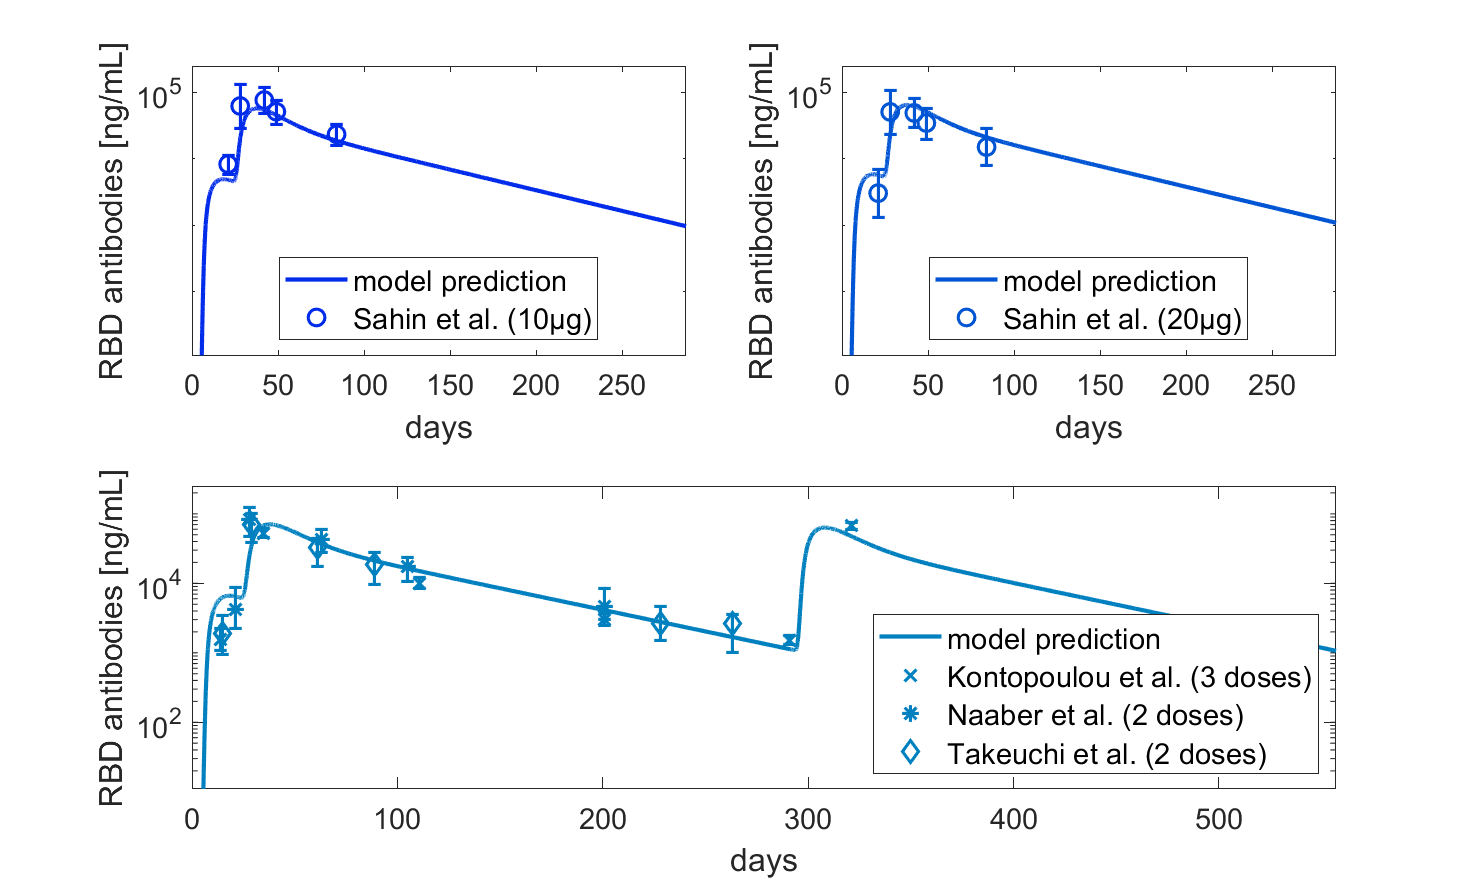
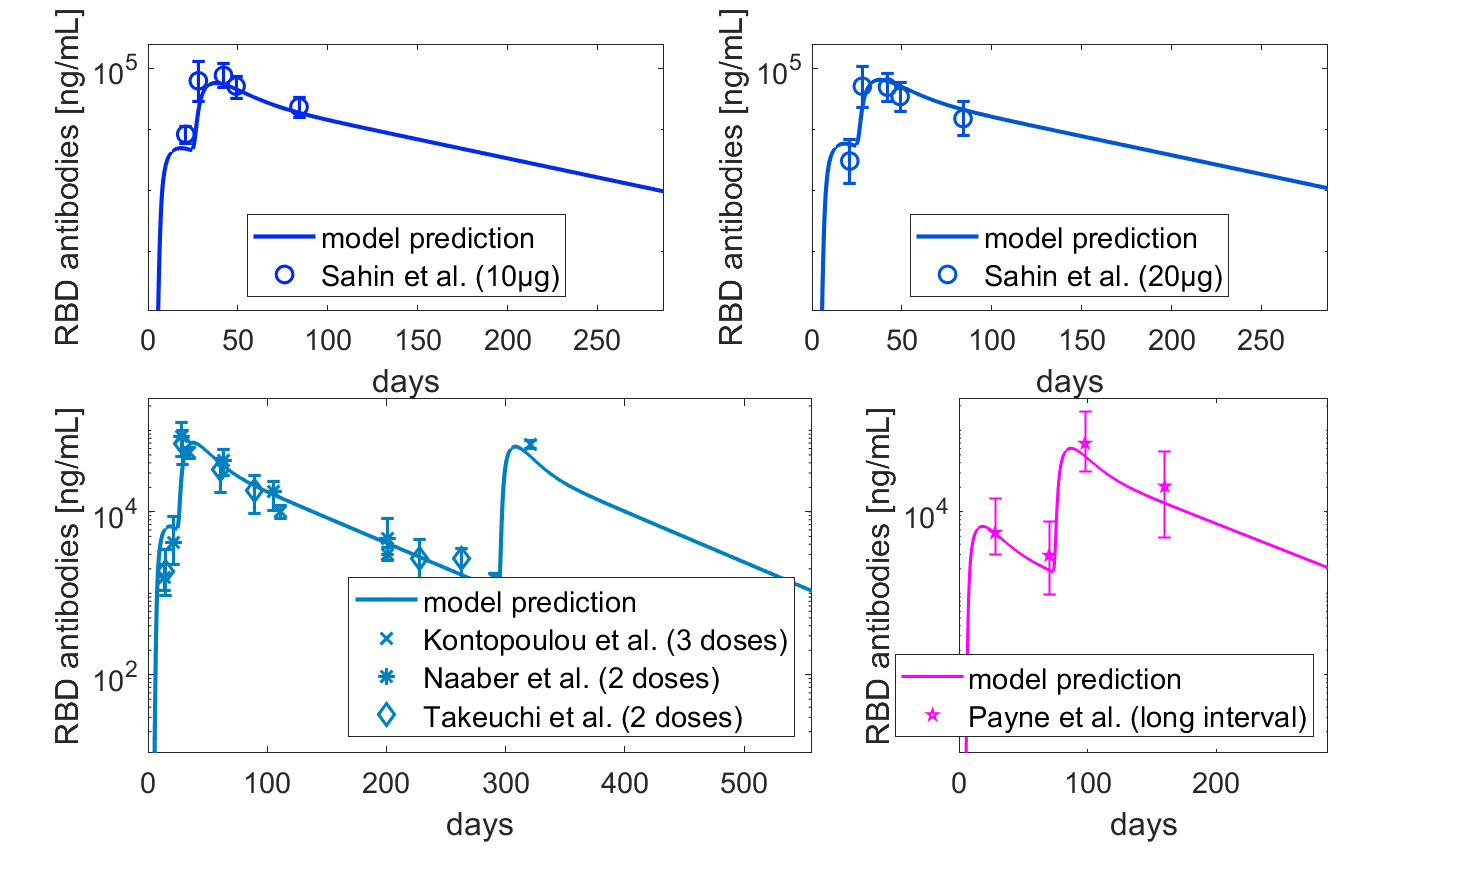
updated code for first revision

diff --git a/Figure_reproduction/Figure 4/Figure_4.m b/Figure_reproduction/Figure 4/Figure_4.m
@@ -2,7 +2,8 @@
 
 %Pfizer BNT162b2 vaccine
 dose_g = 30e-6; % g of mRNA in Pfizer vaccine (30 micrograms)
-admin_times = [21 291]; % days at which the second and the booster doses are administered
+admin_times1 = [21 291]; % days at which the second and the booster doses are administered
+admin_times2 = 70; % days at which the second is administered - extended interval
 load BNT162b2_fit.mat % loading the parametrization optimized by means of Pfizer antibodies data
 Ag_MW = 1377479.8; % (g/mol) molecular weight of BNT162b2 mRNA sequence 
 
@@ -16,38 +17,41 @@ load Liang_fit.mat % fitted parameters from Liang data
 %% general parameters for the simulation
 
 % simulation end-point
-t_end1 = admin_times(1)+38*7; % simulation end-point (38 weeks after the second dose)
-t_end2 = admin_times(2)+38*7; % simulation end-point (38 weeks after the booster dose)
+t_end1 = admin_times1(1)+38*7; % simulation end-point (38 weeks after the second dose)
+t_end2 = admin_times1(2)+38*7; % simulation end-point (38 weeks after the booster dose)
 Tolerance = 1e-10; % Tolerance for the integration (MATLAB default is 1e-6)
 
 
 %% simulation of the dynamics
 
-[t_record10, y_record10, pars10] = simulation(Liang_fit, opt_param, Liang_data, dose_g/3, Ag_MW, admin_times(1), t_end1, Tolerance);
-[t_record20, y_record20, pars20] = simulation(Liang_fit, opt_param, Liang_data, dose_g*2/3, Ag_MW, admin_times(1), t_end1, Tolerance);
-[t_record30, y_record30, pars30] = simulation_tris(Liang_fit, opt_param, Liang_data, dose_g, Ag_MW, admin_times, t_end2, Tolerance);
-
+[t_record10, y_record10, pars10] = simulation(Liang_fit, opt_param, Liang_data, dose_g/3, Ag_MW, admin_times1(1), t_end1, Tolerance);
+[t_record20, y_record20, pars20] = simulation(Liang_fit, opt_param, Liang_data, dose_g*2/3, Ag_MW, admin_times1(1), t_end1, Tolerance);
+[t_record30, y_record30, pars30] = simulation_tris(Liang_fit, opt_param, Liang_data, dose_g, Ag_MW, admin_times1, t_end2, Tolerance);
+[t_record10w, y_record10w, pars10w] = simulation(Liang_fit, opt_param, Liang_data, dose_g, Ag_MW, admin_times2, t_end1, Tolerance);
 
 % IgG production, BL
 
 Ab10 = y_record10(:,51+8*pars10.J:50+9*pars10.J);
 Ab_tot_BL10 = sum(Ab10, 2);
-IgG10 = ((Ab_tot_BL10*10^(-12))*pars10.MW_Ab*10^9)/(pars10.V_BL*10^3); %ng/mL
+IgG10 = ((Ab_tot_BL10*10^(-12))*pars10.MW_Ab*10^9)/(pars10.V_BL*10^3);
 
 Ab20 = y_record20(:,51+8*pars20.J:50+9*pars20.J);
 Ab_tot_BL20 = sum(Ab20, 2);
-IgG20 = ((Ab_tot_BL20*10^(-12))*pars20.MW_Ab*10^9)/(pars20.V_BL*10^3); %ng/mL
+IgG20 = ((Ab_tot_BL20*10^(-12))*pars20.MW_Ab*10^9)/(pars20.V_BL*10^3);
 
 Ab30 = y_record30(:,51+8*pars30.J:50+9*pars30.J);
 Ab_tot_BL30 = sum(Ab30, 2);
-IgG30 = ((Ab_tot_BL30*10^(-12))*pars30.MW_Ab*10^9)/(pars30.V_BL*10^3); %ng/mL
+IgG30 = ((Ab_tot_BL30*10^(-12))*pars30.MW_Ab*10^9)/(pars30.V_BL*10^3);
 
+Ab10w = y_record10w(:,51+8*pars10w.J:50+9*pars10w.J);
+Ab_tot_BL10w = sum(Ab10w, 2);
+IgG10w = ((Ab_tot_BL10w*10^(-12))*pars10w.MW_Ab*10^9)/(pars10w.V_BL*10^3);
 
 
 
 %% loading data :::::::::::::::::::::::::::::::::::::::::::::::::::::::::::
 
-load SahinData.mat % data are in U/mL
+load SahinData.mat
 
 timepoints_Pfizer = pfizerDataWithCI.day(8:13)-1;
 points10ng = pfizerDataWithCI.geomean(8:13);
@@ -59,14 +63,14 @@ low9520ng = pfizerDataWithCI.lower95ci(15:20);
 
 fact_of_conv = 10.708442657140134; 
 
-load NaaberData.mat % data are in AU/mL
+load NaaberData.mat
 
 Naaber_times = NaaberData.times(2:end);
 Naaber_data = NaaberData.SRBD_Ab(2:end);
 Naaber_Q1 = [666; 13985; 8225; 3097; 893];
 Naaber_Q3 = [2582; 36616; 17348; 6924; 2463];
 
-load TakeuchiData.mat % data are in AU/mL
+load TakeuchiData.mat 
 
 Takeuchi_times = Takeuchidata.day(2:end);
 Takeuchi_data = Takeuchidata.IgGSRBD(2:end);
@@ -81,6 +85,12 @@ Papazisis_low95CI = [318.73; 13349.04; 2467.74; 740.40; 384.56; 17665.59];
 
 fact_of_conv_AU = 3.393458396112447; 
 
+load PayneData.mat 
+
+Payne_times = [0, 28, 70, 98, 160];
+
+fact_of_conv_P = 0.4783;
+
 
 %% PLOTS **********************************************************
 
@@ -92,37 +102,38 @@ figure('name',figname,'Units', 'centimeters', 'Position', [0, 0, size]);
 
 
 color = winter(7);
+color10w = cool(5);
 
-subplot(2,2,1);
+subplot('Position',[0.1 0.65 0.35 0.30])
 m = semilogy(t_record10,IgG10,'Color', color(2,:),'LineWidth',2);
 hold on
-j_1 = errorbar(timepoints_Pfizer(2:end), fact_of_conv.*points10ng(2:end), fact_of_conv.*points10ng(2:end) - fact_of_conv.*low9510ng(2:end), ...
+s10_e = errorbar(timepoints_Pfizer(2:end), fact_of_conv.*points10ng(2:end), fact_of_conv.*points10ng(2:end) - fact_of_conv.*low9510ng(2:end), ...
     fact_of_conv.*upp9510ng(2:end) - fact_of_conv.*points10ng(2:end), 'o', 'Color', color(2,:), 'LineWidth', 1.5, 'MarkerSize', 8);
-j = semilogy(timepoints_Pfizer(2:end), fact_of_conv.*points10ng(2:end), 'o', 'Color', color(2,:), 'LineWidth', 1.5, 'MarkerSize', 8);
+s10 = semilogy(timepoints_Pfizer(2:end), fact_of_conv.*points10ng(2:end), 'o', 'Color', color(2,:), 'LineWidth', 1.5, 'MarkerSize', 8);
 xlim([0 t_end1])
 ylim([11 247000])
 xlabel('days')
 ylabel('RBD antibodies [ng/mL]')
 ax = gca; % current axes
 ax.FontSize = 14;
-legend([m j], {'model prediction', 'Sahin et al. (10μg)'}, 'FontSize', 14, Location='south')   
+legend([m s10], {'model prediction', 'Sahin et al. (10μg)'}, 'FontSize', 14, Location='south')   
 
 
-subplot(2,2,2);
+subplot('Position',[0.55 0.65 0.35 0.30])
 m = semilogy(t_record20,IgG20,'Color', color(3,:),'LineWidth',2);
 hold on
-j_1 = errorbar(timepoints_Pfizer(2:end), fact_of_conv.*points20ng(2:end), fact_of_conv.*points20ng(2:end) - fact_of_conv.*low9520ng(2:end), fact_of_conv.*upp9520ng(2:end) - fact_of_conv.*points20ng(2:end), 'o', 'Color', color(3,:), 'LineWidth', 1.5, 'MarkerSize', 8);
-j = semilogy(timepoints_Pfizer(2:end), fact_of_conv.*points20ng(2:end), 'o', 'Color', color(3,:), 'LineWidth', 1.5, 'MarkerSize', 8);
+s20_e = errorbar(timepoints_Pfizer(2:end), fact_of_conv.*points20ng(2:end), fact_of_conv.*points20ng(2:end) - fact_of_conv.*low9520ng(2:end), fact_of_conv.*upp9520ng(2:end) - fact_of_conv.*points20ng(2:end), 'o', 'Color', color(3,:), 'LineWidth', 1.5, 'MarkerSize', 8);
+s20 = semilogy(timepoints_Pfizer(2:end), fact_of_conv.*points20ng(2:end), 'o', 'Color', color(3,:), 'LineWidth', 1.5, 'MarkerSize', 8);
 xlim([0 t_end1])
 ylim([11 247000])
 xlabel('days')
 ylabel('RBD antibodies [ng/mL]')
 ax = gca; % current axes
 ax.FontSize = 14;
-legend([m j], {'model prediction', 'Sahin et al. (20μg)'}, 'FontSize', 14, Location='south')   
+legend([m s20], {'model prediction', 'Sahin et al. (20μg)'}, 'FontSize', 14, Location='south')   
 
 
-subplot(2,2,[3,4]);
+subplot('Position',[0.1 0.15 0.45 0.40])
 m = semilogy(t_record30,IgG30,'Color', color(4,:),'LineWidth',2);
 hold on
 k_1 = errorbar(Papazisis_times, fact_of_conv_AU.*Papazisis_geomean, fact_of_conv_AU.*(Papazisis_geomean - Papazisis_low95CI), fact_of_conv_AU.*(Papazisis_upp95CI - Papazisis_geomean), 'x', 'Color', color(4,:), 'LineWidth', 1.5, 'MarkerSize', 8);
@@ -139,5 +150,21 @@ ax = gca; % current axes
 ax.FontSize = 14;
 legend([m k n t], {'model prediction', 'Kontopoulou et al. (3 doses)', 'Naaber et al. (2 doses)', 'Takeuchi et al. (2 doses)'},...
     'FontSize', 14, 'Location','southeast')
+
+
+subplot('Position',[0.65 0.15 0.25 0.40])
+m10w = semilogy(t_record10w, IgG10w,'Color', color10w(5,:), 'LineWidth', 1.5);
+hold on
+p_l_1 = errorbar(Payne_times(2:end), fact_of_conv_P.*Pl_medians, fact_of_conv_P.*Pl_1stquart, ...
+    fact_of_conv_P.*Pl_3rdquart, 'pentagram', "Color", color10w(5,:),'LineWidth', 1, 'MarkerSize', 5);
+p_l = plot(Payne_times(2:end), fact_of_conv_P.*Pl_medians, 'pentagram', "Color", color10w(5,:),'LineWidth', 1, 'MarkerSize', 5);
+xlim([0 t_end1])
+ylim([11 247000])
+xlabel('days')
+ylabel('RBD antibodies [ng/mL]')
+ax = gca; % current axes
+ax.FontSize = 14;
+legend([m10w p_l], {'model prediction ', 'Payne et al. (long interval)'}, 'FontSize', 14, 'Location','southeast')
+
 
 saveas(gcf, strcat(strrep(figname, ' ', '_'), '.png'))

diff --git a/Figure_reproduction/Figure 7/Figure_7.m b/Figure_reproduction/Figure 7/Figure_7.m
@@ -71,17 +71,34 @@ GMC_25ug = Phase1Trial.GMC_25ug;
 low95CI_25ug = Phase1Trial.low95CI_25ug;
 upp95CI_25ug = Phase1Trial.up95CI_25ug;
 GMC_100ug = Phase1Trial.GMC_100ug;
-GMR = GMC_25ug./GMC_100ug;
-rel_data25 = KeshMod_mob_mean([3,12,19,33]-1).*GMR(2:end);
 
 load KirsteData.mat
 
 GMC_50ug = Phase2Trial.GMC_50ug;
 low95CI_50ug = Phase2Trial.low95CI_50ug;
 upp95CI_50ug = Phase2Trial.up95CI_50ug;
-GMR2 = GMC_50ug./GMC_100ug;
-rel_data50 = KeshMod_mob_mean([3,12,19,33]-1).*GMR2(2:end);
 
+
+%% Fit a non-linear regression model (2 param) to scale the data
+
+Keshdata2comp = zeros(4,3);
+
+for i = 1:length(Phase1times)-1
+    isclosenough = abs(KeshavarzMod_times - Phase1times(1+i)) < 4;
+    Keshdata2comp(i,:) = logmeanandci(KeshavarzMod_data(isclosenough));
+end
+
+modelfun_2p = @(a,x)a(1)*(x.^a(2));
+alpha0 = [1, 1];
+mdl_2par = fitnlm(GMC_100ug(2:end), Keshdata2comp(:,1), modelfun_2p, alpha0, "Weights", 1./(Keshdata2comp(:,3)-Keshdata2comp(:,2)));
+
+pred_25ug = predict(mdl_2par, GMC_25ug(2:end));
+pred_25ug_low = predict(mdl_2par, low95CI_25ug(2:end));
+pred_25ug_upp = predict(mdl_2par, upp95CI_25ug(2:end));
+
+pred_50ug = predict(mdl_2par, GMC_50ug(2:end));
+pred_50ug_low = predict(mdl_2par, low95CI_50ug(2:end));
+pred_50ug_upp = predict(mdl_2par, upp95CI_50ug(2:end));
 
 
 %% PLOTS **********************************************************
@@ -106,8 +123,8 @@ legend({'model prediction', 'Keshavarz et al. (100μg)'}, 'FontSize', 12, "Locat
 subplot(2,2,3)
 m = semilogy(t_record25,IgG25,'Color', color(2,:),'LineWidth',2);
 hold on
-j_1 = errorbar(Phase1times(2:end), rel_data25, rel_data25 - KeshMod_mob_mean([3,12,19,33]-1).*low95CI_25ug(2:end)./GMC_100ug(2:end), KeshMod_mob_mean([3,12,19,33]-1).*upp95CI_25ug(2:end)./GMC_100ug(2:end) - rel_data25, 'v', 'color', color(2,:), 'LineWidth',1.5);
-j = semilogy(Phase1times(2:end), rel_data25, 'v', 'color', color(2,:), 'LineWidth',1.5, 'MarkerSize', 8);
+j = semilogy(Phase1times(2:end), pred_25ug, 'v', 'color', color(2,:), 'LineWidth',1.5, 'MarkerSize', 8);
+j_1 = errorbar(Phase1times(2:end), pred_25ug, pred_25ug - pred_25ug_low, pred_25ug_upp - pred_25ug, 'v', 'color', color(2,:), 'LineWidth',1.5);
 xlim([0 t_end])
 ylim([300 200000])
 xlabel('days')
@@ -119,8 +136,8 @@ legend([m j], {'model prediction', 'Jochum et al. (25μg)'}, 'FontSize', 12, 'Lo
 subplot(2,2,4)
 m = semilogy(t_record50,IgG50,'Color', color(3,:),'LineWidth',2);
 hold on
-k_1 = errorbar(Phase1times(2:end), rel_data50, rel_data50 - KeshMod_mob_mean([3,12,19,33]-1).*low95CI_50ug(2:end)./GMC_100ug(2:end), KeshMod_mob_mean([3,12,19,33]-1).*upp95CI_50ug(2:end)./GMC_100ug(2:end) - rel_data50, '^', 'color', color(3,:), 'LineWidth',1.5);
-k = semilogy(Phase1times(2:end), rel_data50, '^', 'color', color(3,:), 'LineWidth',1.5, 'MarkerSize', 8);
+k = semilogy(Phase1times(2:end), pred_50ug, '^', 'color', color(3,:), 'LineWidth',1.5, 'MarkerSize', 8);
+k_1 = errorbar(Phase1times(2:end), pred_50ug, pred_50ug - pred_50ug_low, pred_50ug_upp - pred_50ug, '^', 'color', color(3,:), 'LineWidth',1.5);
 xlim([0 t_end])
 ylim([300 200000])
 xlabel('days')

diff --git a/Figure_reproduction/Figure 7/logmeanandci.m b/Figure_reproduction/Figure 7/logmeanandci.m
@@ -1,0 +1,16 @@
+function result = logmeanandci(vect)
+
+n = length(vect);
+log_vect = log(vect);
+log_mean = mean(log_vect);
+log_stdev = std(log_vect);
+t_crit = tinv(1-0.05/2, n-1);
+log_ci_low = log_mean - t_crit*log_stdev/sqrt(n); 
+log_ci_upp = log_mean + t_crit*log_stdev/sqrt(n);
+
+mean_v = exp(log_mean);
+low95ci = exp(log_ci_low);
+upp95ci = exp(log_ci_upp);
+result = [mean_v, low95ci, upp95ci];
+end
+
